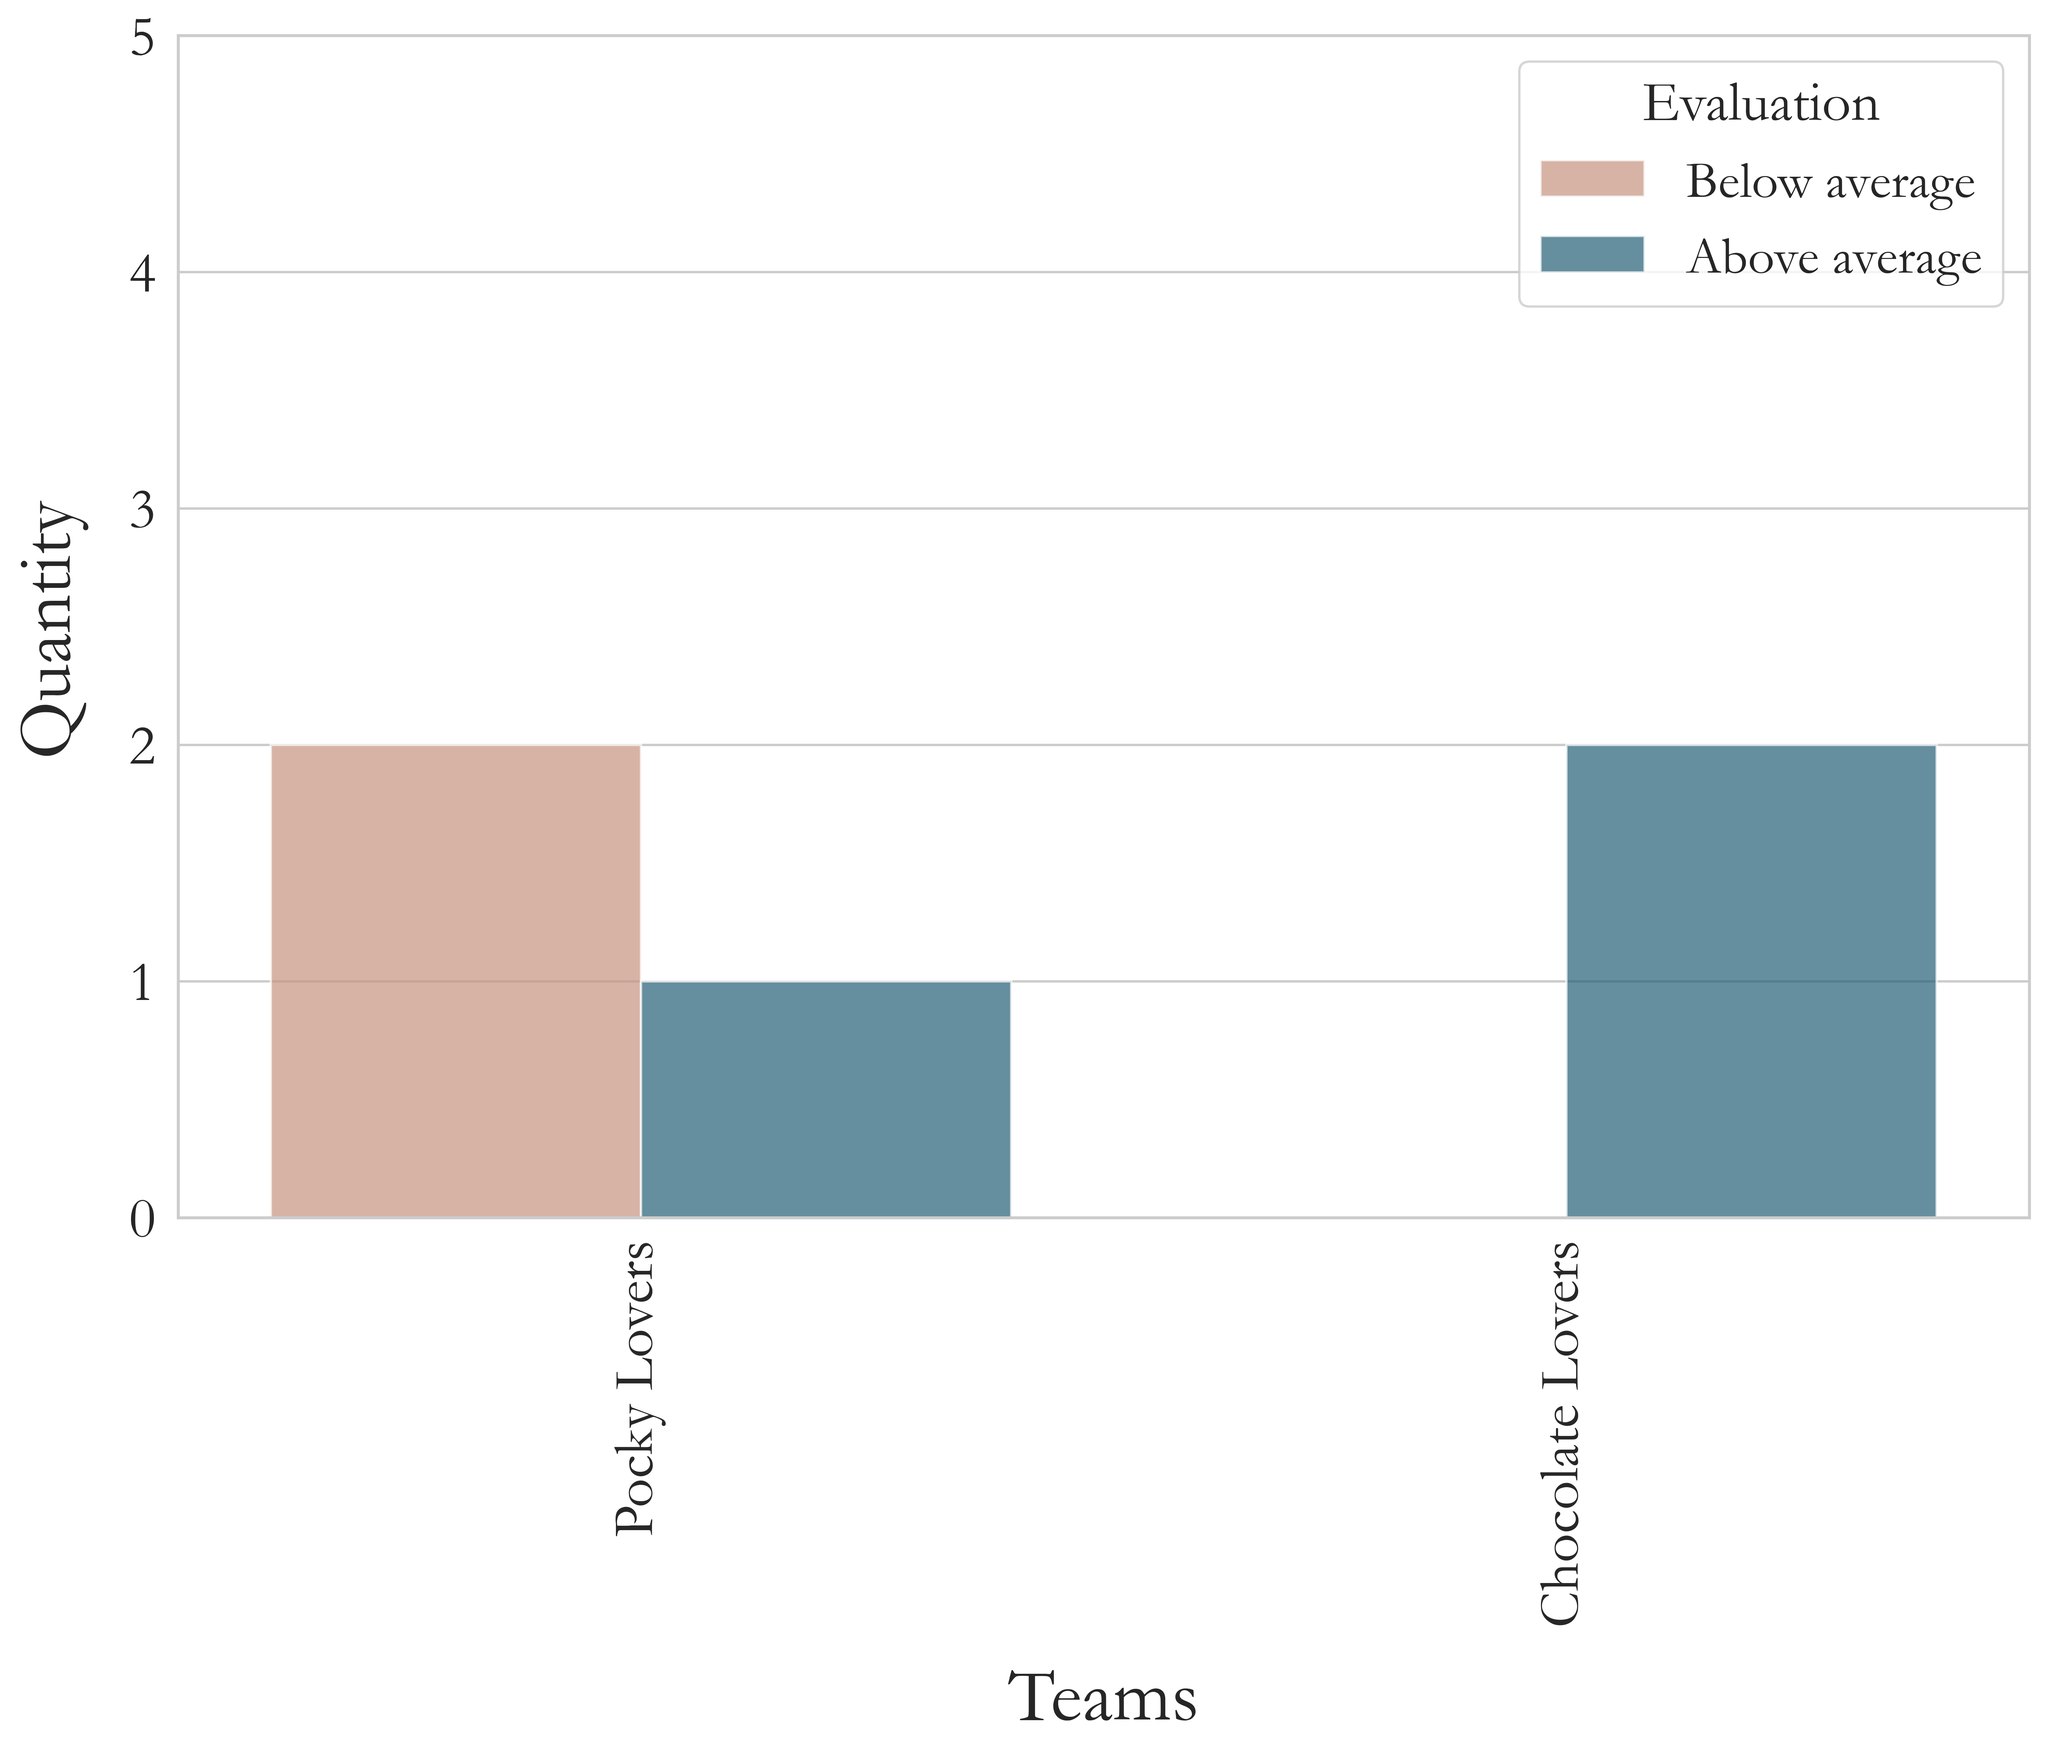
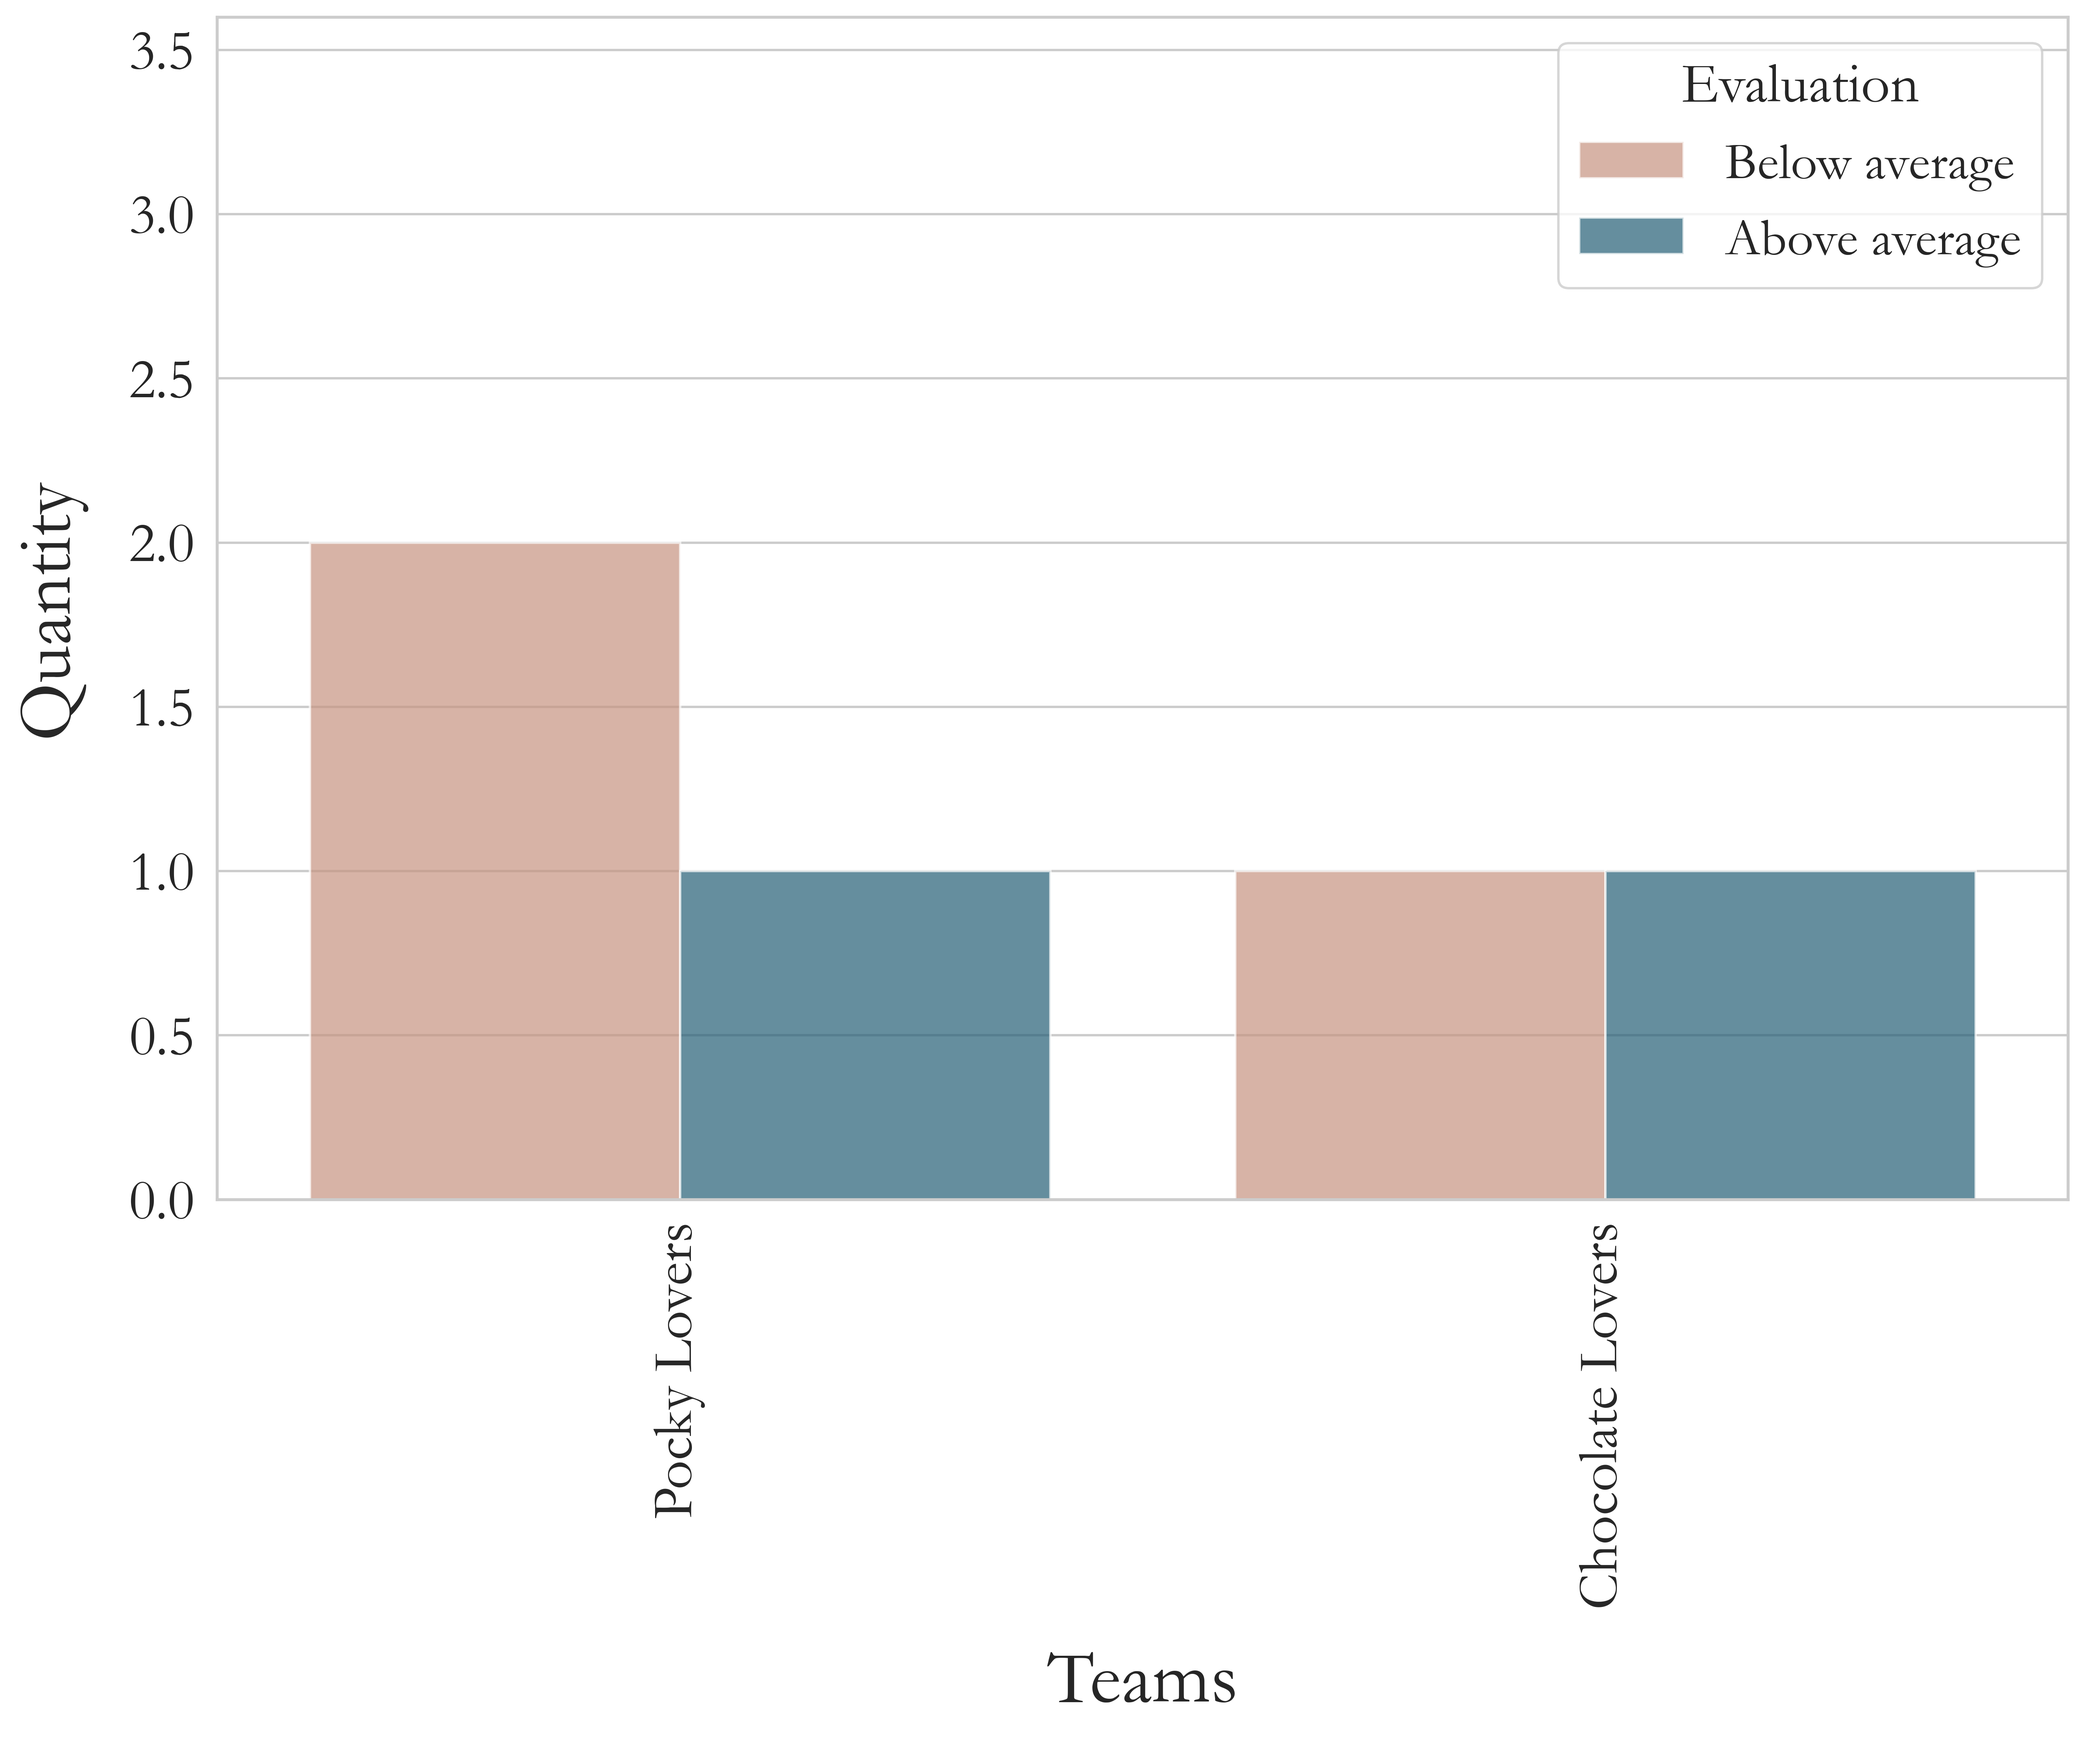
Made y-axis range dynamic

diff --git a/scores_analysis_and_visualisation.py b/scores_analysis_and_visualisation.py
@@ -41,14 +41,23 @@ def save_and_show_plot(filename, transparency):
 def print_paragraph(text):
     print("\n\n\n\n", 50 * "*", text, 50 * "*", "\n")
 
-
 number_of_participants = data.shape[0]
 number_of_rounds = data.shape[1] - 3
+number_of_team_members = data["Team"].value_counts().sort_index()
+largest_team = number_of_team_members.max()
 
 print(f"""Check: 
 - you have {number_of_participants} partcipants;
 - you have {number_of_rounds} rounds
+- you have {largest_team} members in your largest team.")
 """)
+
+
+def determine_max_y_axis(depvar, dataset):
+        max_score = dataset[depvar].max()
+        max_y_axis = max_score + max_score * 0.2
+        return max_y_axis
+
 
 counter = 0
 while counter < 1:
@@ -123,15 +132,16 @@ while counter < 1:
 
     team_top_scores_mean = data.groupby("Team")["total_top_positions"].mean().reset_index()
     team_top_scores_mean.columns = ["Team", "Average No. Of Top Scores For Team"]
-    data = pd.merge(data, team_top_scores_mean, on="Team")
-    
-
+    teamdata = pd.merge(data, team_top_scores_mean, on="Team")
 
     print_paragraph("Global Info About The Score Dataframe")
     data.info()
     print(f"\n\n {data.head} \n\n")
 
     # GRAPH 1
+
+
+    max_y_axis = determine_max_y_axis("total_score", data)
     sns.set(style="whitegrid", font="Garamond")
     plt.rcParams["font.family"] = "Garamond"
     plt.figure(figsize=(14, 6))
@@ -140,13 +150,14 @@ while counter < 1:
     plt.ylabel("Total Score", fontsize=32, labelpad=18)
     plt.xticks(fontsize=24, rotation=90)
     plt.yticks(fontsize=24)
-    plt.ylim(0, 110)
+    plt.ylim(0, max_y_axis)
     save_and_show_plot("Graph1", False)
 
     print_paragraph("TABLE - Total Scores Of Participants")
     print_proportion_table_per_group("total_score", "Participant", data)
 
     # GRAPH 2
+    max_y_axis = determine_max_y_axis("average_score", data)
     sns.set(style="whitegrid", font="Garamond")
     plt.rcParams["font.family"] = "Garamond"
     plt.figure(figsize=(14, 6))
@@ -155,13 +166,14 @@ while counter < 1:
     plt.ylabel("Average Score", fontsize=32, labelpad=18)
     plt.xticks(fontsize=24, rotation=90)
     plt.yticks(fontsize=24)
-    plt.ylim(0, 110)
+    plt.ylim(0, max_y_axis)
     save_and_show_plot("Graph2", False)
 
     print_paragraph("TABLE - Average Scores Of Participants")
     print_proportion_table_per_group("average_score", "Participant", data)
 
     # GRAPH 3
+    max_y_axis = determine_max_y_axis("total_top_positions", data)
     sns.set(style="whitegrid", font="Garamond")
     plt.rcParams["font.family"] = "Garamond"
     plt.figure(figsize=(14, 6))
@@ -170,26 +182,28 @@ while counter < 1:
     plt.ylabel("Total rounds at top", fontsize=32, labelpad=18)
     plt.xticks(fontsize=24, rotation=90)
     plt.yticks(fontsize=24)
-    plt.ylim(0, 6)
+    plt.ylim(0, max_y_axis)
     save_and_show_plot("Graph3", False)
 
     print_paragraph("TABLE - Total Top Positions for Each Participant")
     print_proportion_table_per_group("total_top_positions", "Participant", data)
 
     # GRAPH 4
+
+    max_y_axis = determine_max_y_axis("Average No. Of Top Scores For Team", teamdata)
     sns.set(style="whitegrid", font="Garamond")
     plt.rcParams["font.family"] = "Garamond"
     plt.figure(figsize=(14, 9))
-    sns.barplot(data=data, x="Team", y="Average No. Of Top Scores For Team", palette=team_colors, alpha = 0.7, width=1, errorbar = None)
+    sns.barplot(data=teamdata, x="Team", y="Average No. Of Top Scores For Team", palette=team_colors, alpha = 0.7, width=1, errorbar = None)
     plt.ylabel("Average rounds that team members were at top", fontsize=32, labelpad=18)
     plt.xlabel("Teams", fontsize=32, labelpad=18)
     plt.xticks(fontsize=24, rotation=90)
     plt.yticks(fontsize=24)
-    plt.ylim(0, 5)
+    plt.ylim(0, max_y_axis)
     save_and_show_plot("Graph4", False)
 
     print_paragraph("TABLE - Average rounds that team members were at top")
-    print_proportion_table_per_group("Average No. Of Top Scores For Team", "Team", data)
+    print_proportion_table_per_group("Average No. Of Top Scores For Team", "Team", teamdata)
 
     # GRAPH 5
     average_total_score = data["total_score"].mean()
@@ -197,6 +211,7 @@ while counter < 1:
     above_average_score_data = data[data["final_evaluation"] == 1]
     below_average_score_data = data[data["final_evaluation"] == 0]
 
+    max_y_axis = largest_team + largest_team * 0.2
     sns.set(style="whitegrid", font="Garamond")
     plt.rcParams["font.family"] = "Garamond"
     plt.figure(figsize=(14, 9))
@@ -205,7 +220,7 @@ while counter < 1:
     plt.xlabel("Teams", fontsize=32, labelpad=18)
     plt.xticks(fontsize=24, rotation=90)
     plt.yticks(fontsize=24)
-    plt.ylim(0, 5)
+    plt.ylim(0, max_y_axis)
     plt.legend(title="Evaluation", loc="upper right", fontsize=22, title_fontsize="24", labels=["Below average", "Above average"])
     save_and_show_plot("Graph5", False)
 
@@ -242,8 +257,9 @@ while counter < 1:
 
     # Actiepunten:
     # Maak de code mooier met #%# of zoiets en docstring
-    # Maak de grafieken nog mooier! Legenda wel of niet. Kleuren goed? Y-as range afhankelijk maken van scorerange.
+    # Maak de grafieken nog mooier! Legenda wel of niet. Kleuren goed?
     # De twee andere grafieken ook nog doen (Graph 6 en 7)
     # Kijken waar meer functies kunnen worden gedefinieerd.
     # Tabellen bepalen: wat wil je in tabellen in de report
     # Report maken met tabellen, grafieken en tekst. Allemaal geautomatiseerd!
+    # Kijk of je code HELEMAAL object oriented kan! En efficienter.

diff --git a/dobbelsteen.py b/dobbelsteen.py
@@ -177,6 +177,7 @@ while run_another_round:
 
 print("\n\nOkay cool. The game was fun. Now we'll construct the dataframe. See file 'dice_scores.xlsx'\n\n")
 
+
 data = {"Participant": [participant.name for participant in participants],
         "ID":  [participant.id for participant in participants],
         "Team": [participant.team for participant in participants]}
